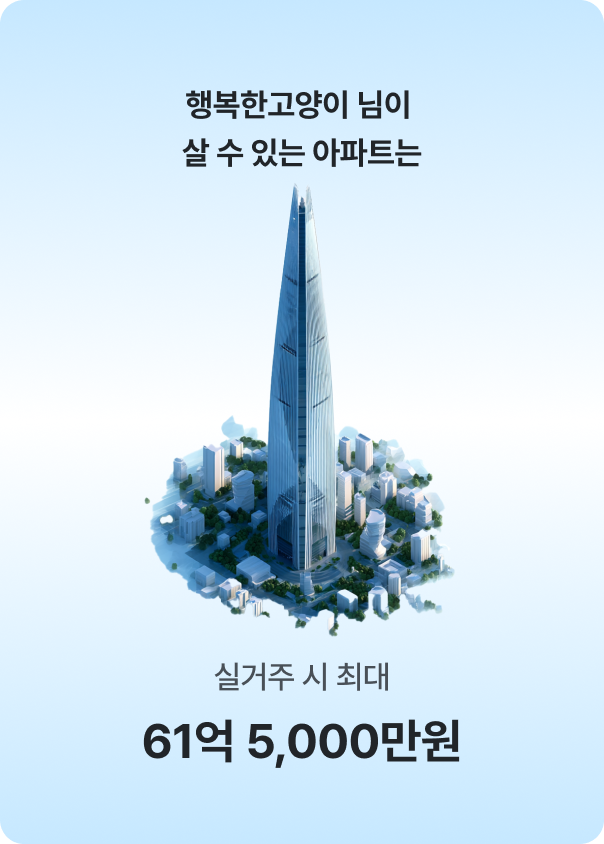
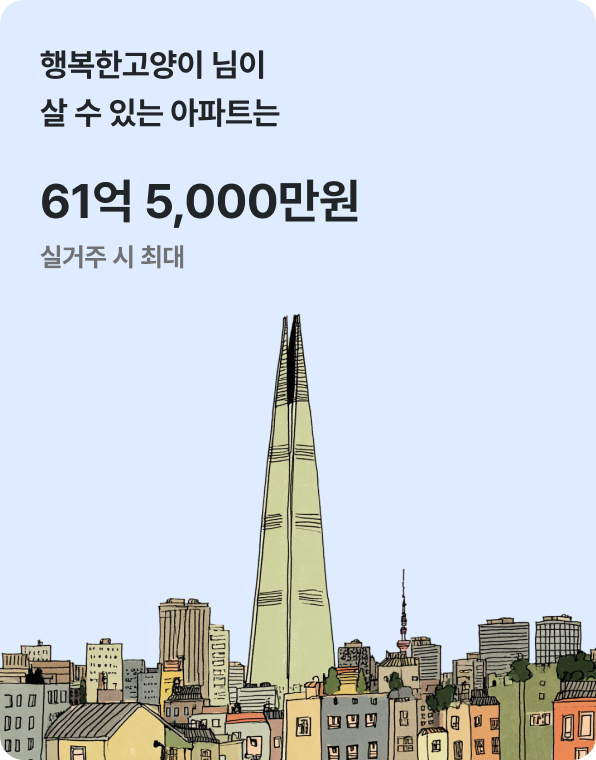
feat: 카드 디자인 및 UI 개선 - 결과 페이지 카드 리뉴얼, 랜덤 이미지 시스템, 인피니티 슬라이더, dot 로딩 애니메이션 구현

diff --git a/src/app/result/final/page.tsx b/src/app/result/final/page.tsx
@@ -72,8 +72,8 @@ export default function FinalResultPage() {
   const [activeTab, setActiveTab] = useState('gap'); // 'gap' 또는 'live'
   
   // 카드 배경 스타일 및 이미지 이름 상태
-  const [cardBackground, setCardBackground] = useState(HOUSE_STYLES.LOW_TIER.gradient); // 기본값
-  const [currentImageName, setCurrentImageName] = useState(HOUSE_STYLES.LOW_TIER.image); // 기본값
+  const [gapImageName, setGapImageName] = useState('img_house_01.png'); // 갭투자용 이미지
+  const [liveImageName, setLiveImageName] = useState('img_house_02.png'); // 실거주용 이미지
   
   const [imageError, setImageError] = useState(false);
   const [isSaving, setIsSaving] = useState(false);
@@ -103,22 +103,22 @@ export default function FinalResultPage() {
     }
   });
   
-  // 현재 활성화된 탭의 가격에 따른 이미지 파일 이름 및 배경 업데이트
+  // 컴포넌트 마운트 시 랜덤 이미지 선택
   useEffect(() => {
-    const price = activeTab === 'gap' 
-      ? calculationResult.investment.maxPropertyPrice
-      : calculationResult.living.maxPropertyPrice;
+    const availableImages = ['img_house_01.png', 'img_house_02.png', 'img_house_03.png', 'img_house_04.png', 'img_house_05.png'];
     
-    if (price > 0) { // 계산 결과가 있고 0보다 클 때만 업데이트
-      const style = getHouseStyleByPrice(price);
-      setCurrentImageName(style.imageName);
-      setCardBackground(style.backgroundGradient);
-    } else {
-      // 가격 정보가 없거나 0일 경우 기본값 설정 (또는 다른 로직)
-      setCurrentImageName(HOUSE_STYLES.LOW_TIER.image);
-      setCardBackground(HOUSE_STYLES.LOW_TIER.gradient);
-    }
-  }, [activeTab, calculationResult]);
+    // 갭투자용 이미지 랜덤 선택
+    const gapIndex = Math.floor(Math.random() * availableImages.length);
+    const selectedGapImage = availableImages[gapIndex];
+    
+    // 실거주용 이미지는 갭투자용과 다르게 선택
+    const remainingImages = availableImages.filter(img => img !== selectedGapImage);
+    const liveIndex = Math.floor(Math.random() * remainingImages.length);
+    const selectedLiveImage = remainingImages[liveIndex];
+    
+    setGapImageName(selectedGapImage);
+    setLiveImageName(selectedLiveImage);
+  }, []); // 빈 dependency array로 컴포넌트 마운트 시 한 번만 실행
 
   useEffect(() => {
     // 로컬 스토리지에서 사용자 이름 가져오기
@@ -219,13 +219,15 @@ export default function FinalResultPage() {
 
   // 이미지 로드 에러 핸들러
   const handleImageError = () => {
-    console.error('Image failed to load:', currentImageName);
+    const imageName = activeTab === 'gap' ? gapImageName : liveImageName;
+    console.error('Image failed to load:', imageName);
     setImageError(true);
   };
 
   // 이미지 로드 성공 핸들러
   const handleImageLoad = () => {
-    console.log('Image loaded successfully:', currentImageName);
+    const imageName = activeTab === 'gap' ? gapImageName : liveImageName;
+    console.log('Image loaded successfully:', imageName);
     setImageError(false);
   };
 
@@ -288,7 +290,7 @@ export default function FinalResultPage() {
         </h1>
 
         {/* 탭 */}
-        <div className="flex border-b border-grey-40 mb-6">
+        <div className="flex border-b border-grey-40 mb-10">
           <button
             className={`flex-1 py-[10px] px-4 text-center ${
               activeTab === 'gap' 
@@ -315,41 +317,99 @@ export default function FinalResultPage() {
         <div className="flex flex-col items-center mb-6">
           <div 
             ref={cardRef}
-            className="relative w-[302px] h-[335px] rounded-xl overflow-hidden"
-            style={{ background: cardBackground }} // 동적 배경 적용
+            style={{
+              display: 'flex',
+              width: '298px',
+              height: '380px',
+              padding: '20px 20px 0px 20px',
+              flexDirection: 'column',
+              justifyContent: 'space-between',
+              alignItems: 'center',
+              borderRadius: '12px',
+              background: '#DFECFF'
+            }}
           >
-            {/* 이미지 (카드 위에 겹침) */}
-            {!imageError ? (
-              <img 
-                className="absolute top-0 left-0 w-full h-full object-cover z-10"
-                src={`/images/${currentImageName}`} // 동적 이미지 적용
-                alt="아파트 이미지"
-                onError={handleImageError}
-                onLoad={handleImageLoad}
-                crossOrigin="anonymous"
-              />
-            ) : (
-              <div className="absolute top-0 left-0 w-full h-full flex items-center justify-center bg-[#F8F9FA] z-10">
-                <span className="text-grey-60 text-sm">
-                  {imageError ? "이미지 로드 실패" : "이미지 로딩 중..."}
-                </span>
-              </div>
-            )}
-            
-            {/* 텍스트 (이미지 위에 위치) */}
-            <div className="absolute top-[30px] left-[30px] right-[30px] z-20 flex flex-col items-start w-[calc(100%-60px)] gap-2">
-              {/* 금액 먼저 표시 */}
-              <p className="w-full text-left text-grey-100 text-2xl font-bold leading-8 tracking-[-0.24px]">
+            {/* 상단 텍스트들 */}
+            <div className="flex flex-col items-start w-full">
+              {/* 상단 텍스트 */}
+              <p 
+                style={{
+                  color: 'var(--grey-100, #212529)',
+                  fontFamily: 'Pretendard',
+                  fontSize: '16px',
+                  fontStyle: 'normal',
+                  fontWeight: '700',
+                  lineHeight: '24px',
+                  letterSpacing: '-0.16px',
+                  marginBottom: '8px'
+                }}
+              >
+                <span style={{ fontWeight: '700' }}>{username}</span> 님이<br />살 수 있는 아파트는
+              </p>
+              
+              {/* 금액 텍스트 */}
+              <p 
+                style={{
+                  color: 'var(--grey-100, #212529)',
+                  fontFamily: 'Pretendard',
+                  fontSize: '24px',
+                  fontStyle: 'normal',
+                  fontWeight: '700',
+                  lineHeight: '32px',
+                  letterSpacing: '-0.24px',
+                  marginBottom: '4px'
+                }}
+              >
                 {activeTab === 'gap' 
                   ? formatToKorean(calculationResult.investment.maxPropertyPrice)
                   : formatToKorean(calculationResult.living.maxPropertyPrice)
                 }
               </p>
               
-              {/* 닉네임 텍스트 작게 표시 */}
-              <p className="w-full text-left text-grey-100 text-sm font-bold leading-5 tracking-[-0.14px]">
-                {username} 님이<br />살 수 있는 아파트
+              {/* 실거주시/갭투자시 작은 텍스트 */}
+              <p 
+                style={{
+                  color: 'var(--Gray-60, #707075)',
+                  fontFamily: 'var(--font-family-Pretendard, Pretendard)',
+                  fontSize: 'var(--font-size-Label-2, 13px)',
+                  fontStyle: 'normal',
+                  fontWeight: '700',
+                  lineHeight: 'var(--font-line-height-Label-2-reading, 20px)',
+                  letterSpacing: '-0.13px'
+                }}
+              >
+                {activeTab === 'gap' ? '갭투자 시 최대' : '실거주 시 최대'}
               </p>
+            </div>
+            
+            {/* 이미지 */}
+            <div 
+              style={{
+                display: 'flex',
+                width: '298px',
+                height: '238px',
+                justifyContent: 'center',
+                alignItems: 'center',
+                flexShrink: '0',
+                aspectRatio: '149/119'
+              }}
+            >
+              {!imageError ? (
+                <img 
+                  className="w-full h-full object-contain"
+                  src={`/images/${activeTab === 'gap' ? gapImageName : liveImageName}`}
+                  alt="아파트 이미지"
+                  onError={handleImageError}
+                  onLoad={handleImageLoad}
+                  crossOrigin="anonymous"
+                />
+              ) : (
+                <div className="w-full h-full flex items-center justify-center bg-[#F6F7FF]">
+                  <span className="text-grey-60 text-sm">
+                    {imageError ? "이미지 로드 실패" : "이미지 로딩 중..."}
+                  </span>
+                </div>
+              )}
             </div>
           </div>
         </div>
@@ -357,7 +417,7 @@ export default function FinalResultPage() {
         {/* 자금계획 섹션 (24px 간격으로 변경) */}
         <div className="flex flex-col items-center">
           {/* 최대 금액 정보 */}
-          <div className="flex flex-col p-4 gap-2 rounded-xl bg-[#F8F9FA] mb-6 w-[302px]">
+          <div className="flex flex-col p-4 gap-2 rounded-xl bg-[#F6F7FF] mb-6 w-[302px]">
             <h2 className="text-black text-[18px] font-bold leading-[26px] tracking-[-0.18px]">
               {activeTab === 'gap' ? '갭투자 시' : '실거주 시'}
             </h2>
@@ -382,7 +442,7 @@ export default function FinalResultPage() {
                 <h3 className="text-[#212529] text-base font-bold leading-6 tracking-[-0.16px] mb-2">
                   신용대출
                 </h3>
-                <div className="flex flex-col p-4 gap-2 rounded-xl bg-[#F8F9FA]">
+                <div className="flex flex-col p-4 gap-2 rounded-xl bg-[#F6F7FF]">
                   <div className="flex justify-between items-center w-full">
                     <p className="text-[#495057] text-[15px] font-normal leading-[22px] tracking-[-0.3px]">
                       연소득의 120%
@@ -402,7 +462,7 @@ export default function FinalResultPage() {
                 <h3 className="text-[#212529] text-base font-bold leading-6 tracking-[-0.16px] mb-2">
                   월 상환액 (이자)
                 </h3>
-                <div className="flex flex-col p-4 gap-2 rounded-xl bg-[#F8F9FA]">
+                <div className="flex flex-col p-4 gap-2 rounded-xl bg-[#F6F7FF]">
                   <div className="flex justify-between items-center w-full">
                     <p className="text-[#495057] text-[15px] font-normal leading-[22px] tracking-[-0.3px]">
                       1년 만기
@@ -422,7 +482,7 @@ export default function FinalResultPage() {
                 <h3 className="text-[#212529] text-base font-bold leading-6 tracking-[-0.16px] mb-2">
                   전세금
                 </h3>
-                <div className="flex flex-col p-4 gap-2 rounded-xl bg-[#F8F9FA]">
+                <div className="flex flex-col p-4 gap-2 rounded-xl bg-[#F6F7FF]">
                   <div className="flex justify-between items-center w-full">
                     <p className="text-[#495057] text-[15px] font-normal leading-[22px] tracking-[-0.3px]">
                       전세가율 60%
@@ -444,7 +504,7 @@ export default function FinalResultPage() {
                 <h3 className="text-[#212529] text-base font-bold leading-6 tracking-[-0.16px] mb-2">
                   DSR (총부채원리금상환비율)
                 </h3>
-                <div className="flex flex-col p-4 gap-2 rounded-xl bg-[#F8F9FA]">
+                <div className="flex flex-col p-4 gap-2 rounded-xl bg-[#F6F7FF]">
                   <div className="flex justify-between items-center w-full">
                     <p className="text-[#495057] text-[15px] font-normal leading-[22px] tracking-[-0.3px]">
                       {loanOptions.dsr}% 기준
@@ -464,7 +524,7 @@ export default function FinalResultPage() {
                 <h3 className="text-[#212529] text-base font-bold leading-6 tracking-[-0.16px] mb-2">
                   주택담보대출
                 </h3>
-                <div className="flex flex-col p-4 gap-2 rounded-xl bg-[#F8F9FA]">
+                <div className="flex flex-col p-4 gap-2 rounded-xl bg-[#F6F7FF]">
                   <div className="flex justify-between items-center w-full">
                     <p className="text-[#495057] text-[15px] font-normal leading-[22px] tracking-[-0.3px]">
                       40년 만기
@@ -484,7 +544,7 @@ export default function FinalResultPage() {
                 <h3 className="text-[#212529] text-base font-bold leading-6 tracking-[-0.16px] mb-2">
                   월 상환액 (원금+이자)
                 </h3>
-                <div className="flex flex-col p-4 gap-2 rounded-xl bg-[#F8F9FA]">
+                <div className="flex flex-col p-4 gap-2 rounded-xl bg-[#F6F7FF]">
                   <div className="flex justify-between items-center w-full">
                     <p className="text-[#495057] text-[15px] font-normal leading-[22px] tracking-[-0.3px]">
                       40년 만기
@@ -506,7 +566,7 @@ export default function FinalResultPage() {
             <h3 className="text-[#212529] text-base font-bold leading-6 tracking-[-0.16px] mb-2">
               보유자산
             </h3>
-            <div className="flex flex-col p-4 gap-2 rounded-xl bg-[#F8F9FA]">
+            <div className="flex flex-col p-4 gap-2 rounded-xl bg-[#F6F7FF]">
               <div className="flex justify-between items-center w-full">
                 <p className="text-[#495057] text-[15px] font-normal leading-[22px] tracking-[-0.3px]">
                   보유자산

diff --git a/src/app/page.tsx b/src/app/page.tsx
@@ -6,15 +6,13 @@ import { useState } from 'react';
 export default function Home() {
   const router = useRouter();
   
-  // 지정된 순서로 이미지 배열 설정 (1>4>6>7>2>3>5)
+  // 지정된 순서로 이미지 배열 설정 (1>3>5>2>4)
   const [orderedImages] = useState<string[]>([
     'home-image-01.png',
-    'home-image-04.png',
-    'home-image-06.png',
-    'home-image-07.png',
-    'home-image-02.png',
     'home-image-03.png',
-    'home-image-05.png'
+    'home-image-05.png',
+    'home-image-02.png',
+    'home-image-04.png'
   ]);
 
   return (
@@ -32,8 +30,19 @@ export default function Home() {
       {/* 이미지 슬라이더 */}
       <div className="image-slider-container my-10 w-full max-w-md">
         <div className="image-slider">
+          {/* 첫 번째 세트 */}
           {orderedImages.map((imageName, index) => (
-            <div key={index} className="image-card">
+            <div key={`first-${index}`} className="image-card">
+              <img 
+                src={`/images/${imageName}`} 
+                alt={`아파트 이미지 ${index + 1}`}
+                className="w-full h-auto object-contain rounded-xl"
+              />
+            </div>
+          ))}
+          {/* 두 번째 세트 (무한 루프용) */}
+          {orderedImages.map((imageName, index) => (
+            <div key={`second-${index}`} className="image-card">
               <img 
                 src={`/images/${imageName}`} 
                 alt={`아파트 이미지 ${index + 1}`}

diff --git a/src/app/globals.css b/src/app/globals.css
@@ -23,9 +23,9 @@ body {
 
 .image-slider {
   display: flex;
-  animation: slideLeft 20s linear infinite;
-  padding: 0 20px;
+  animation: infiniteSlide 15s linear infinite;
   align-items: center;
+  width: calc(275px * 10); /* 5개 이미지 × 2세트 × 275px */
 }
 
 .image-card {
@@ -34,11 +34,50 @@ body {
   margin-right: 10px;
 }
 
-@keyframes slideLeft {
+@keyframes infiniteSlide {
   0% {
-    transform: translateX(100%);
+    transform: translateX(0);
   }
   100% {
-    transform: translateX(-100%);
+    transform: translateX(calc(-275px * 5)); /* 5개 이미지만큼 이동 */
+  }
+}
+
+/* Dots Loader */
+.dots-loader {
+  display: flex;
+  justify-content: center;
+  align-items: center;
+  gap: 8px;
+}
+
+.dot {
+  width: 12px;
+  height: 12px;
+  border-radius: 50%;
+  background-color: var(--primary);
+  animation: dotPulse 1.4s ease-in-out infinite both;
+}
+
+.dot:nth-child(1) {
+  animation-delay: -0.32s;
+}
+
+.dot:nth-child(2) {
+  animation-delay: -0.16s;
+}
+
+.dot:nth-child(3) {
+  animation-delay: 0s;
+}
+
+@keyframes dotPulse {
+  0%, 80%, 100% {
+    transform: scale(0.6);
+    opacity: 0.5;
+  }
+  40% {
+    transform: scale(1);
+    opacity: 1;
   }
 } 

diff --git a/src/app/result/loading/page.tsx b/src/app/result/loading/page.tsx
@@ -19,7 +19,11 @@ export default function LoadingPage() {
     <div className="min-h-screen bg-white flex flex-col items-center justify-center px-5 py-12">
       {/* 로딩 애니메이션 */}
       <div className="mb-8">
-        <div className="w-16 h-16 border-t-4 border-primary border-solid rounded-full animate-spin"></div>
+        <div className="dots-loader">
+          <div className="dot"></div>
+          <div className="dot"></div>
+          <div className="dot"></div>
+        </div>
       </div>
 
       {/* 타이틀 */}
